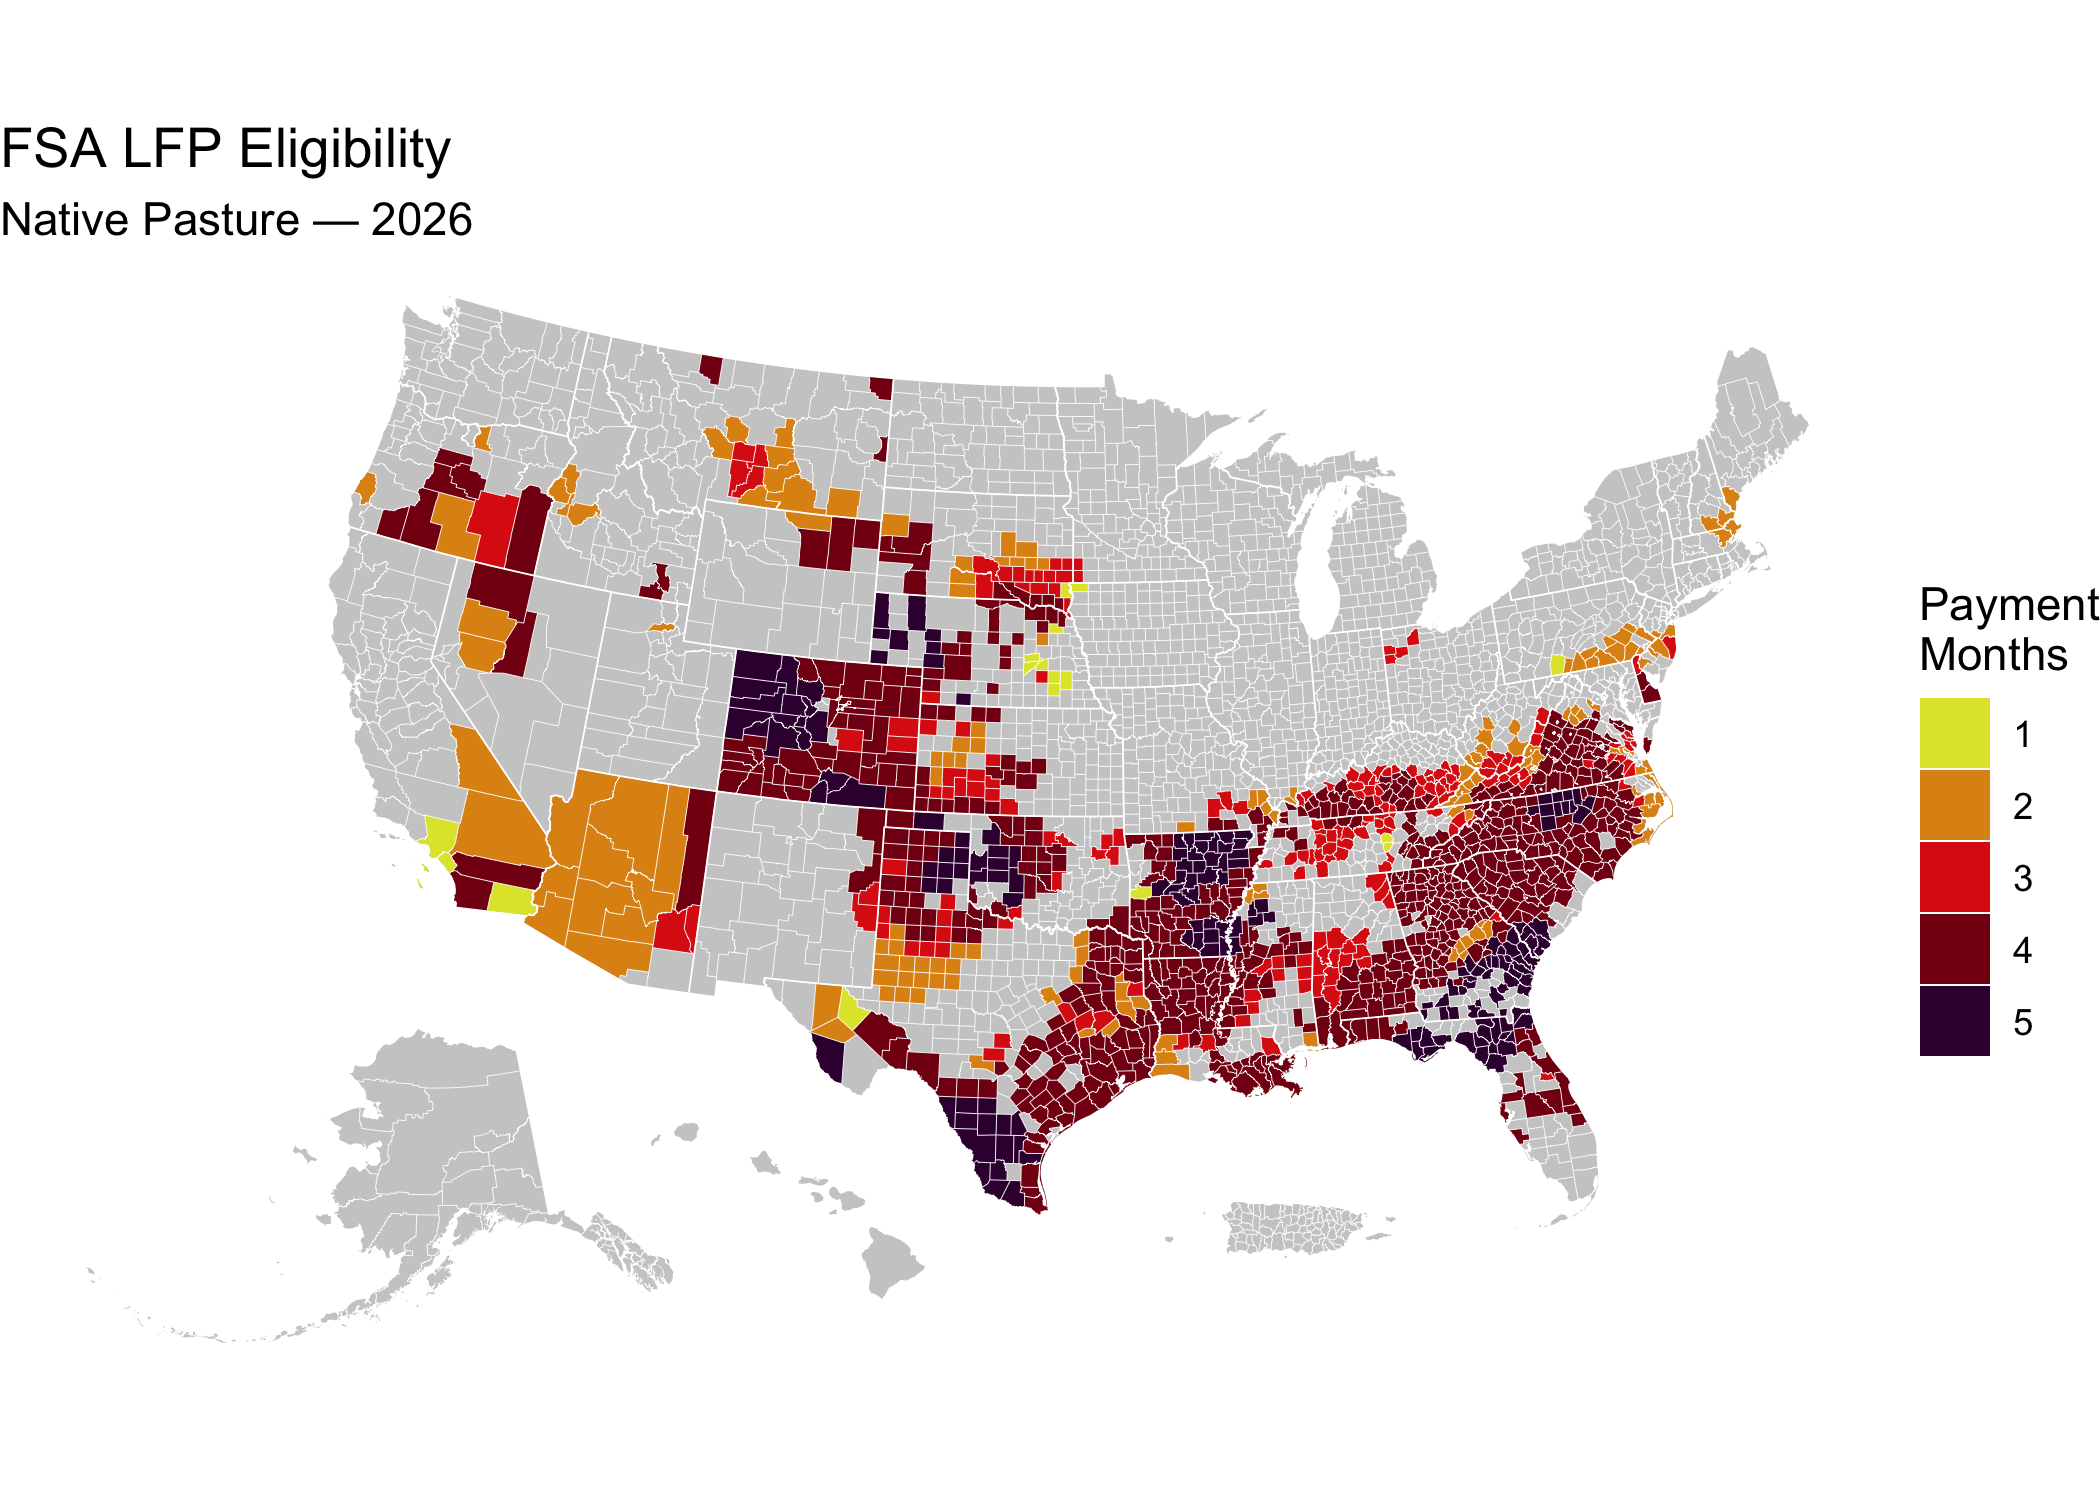
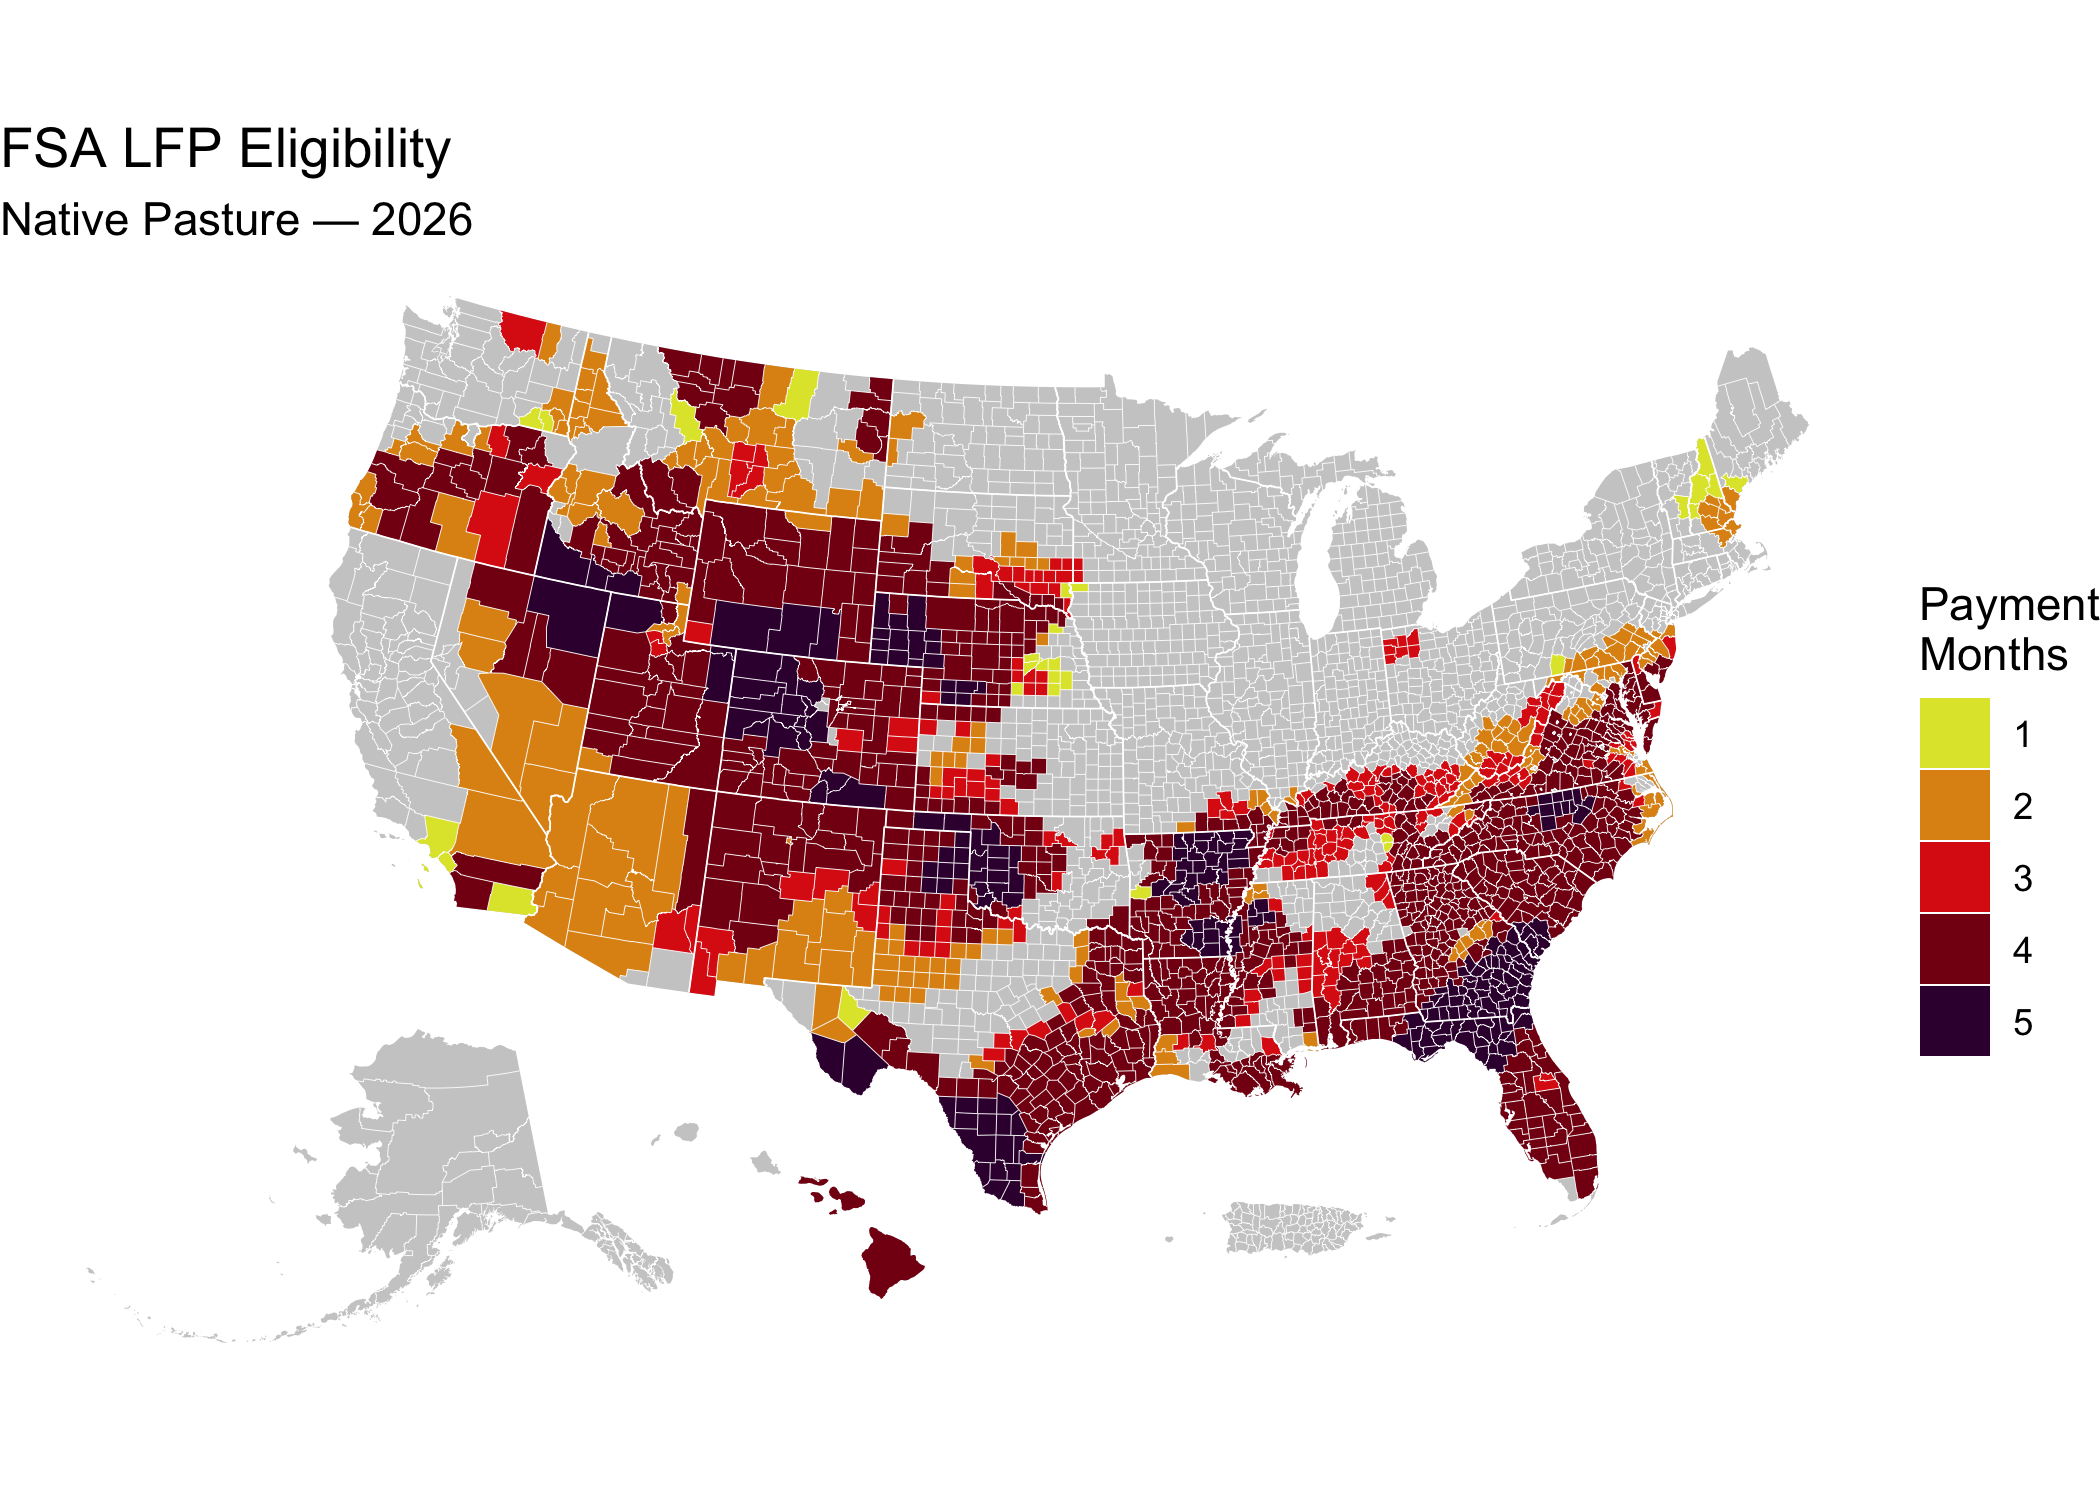
Fix silent row loss from unpadded FSA codes (2025/2026 under-read)
The 2025 year-end table stores FSA state/county codes as numeric cells,
which read as unpadded text ("1", "11"); those codes failed the FIPS join
and were silently dropped (2025: 2,821 -> 978 rows), and they poisoned the
name-based county lookup that the code-less 2026 weekly rows depend on
(2026: 7,767 -> 6,300). Zero-pad codes after the fallback chain, fail
loudly on FIPS-join misses instead of filtering silently, map the "???"
FSA administrative units (names verified in fsa-counties-dd17/dd22),
reconcile the Houlton/Fort Kent Maine units to Aroostook, and add
FORCE_REBUILD=true for regenerating outputs when no new assets exist.

Current output now carries 58,475 rows; every program year is within
~0.3-3% of the FOIA archive with 100% payment-factor agreement on matched
records, and the 2026 Native Pasture README map matches FSA's published
PDF. README comparison language corrected accordingly.

diff --git a/README.md b/README.md
@@ -31,16 +31,16 @@ This repository is the web-published companion to
 [`sustainable-fsa/fsa-lfp-eligibility`](https://github.com/sustainable-fsa/fsa-lfp-eligibility),
 which archives the same LFP county eligibility determinations as
 obtained directly from FSA via FOIA request. The two datasets share a
-common schema, but differ in content: the FOIA data are richer — they
-include Fire eligibility, payment factors for 2008–2011, and later
-corrections and retroactive determinations that never appeared in the
-web-published tables (the web tables for a program year remain
-provisional until well after year end). This archive’s unique
-contributions are current-year coverage, the weekly snapshot history,
-and the original published maps and tables themselves. For most analyses
-of 2008–2025 eligibility, prefer the FOIA archive; use this archive for
-the current program year and for studying when eligibility was
-published.
+common schema and agree on the determinations they both contain, but
+differ at the margins: the FOIA data are somewhat richer — they include
+Fire eligibility, payment factors for 2008–2011, and modestly more
+records in most years (roughly 0.3–3%) reflecting corrections and late
+determinations captured in FSA’s subsequent database extracts. This
+archive’s unique contributions are current-year coverage, the weekly
+snapshot history, and the original published maps and tables themselves.
+For analyses of completed program years, prefer the FOIA archive; use
+this archive for the current program year and for studying when
+eligibility was published.
 
 The [`fsa-lfp-eligibility-web.R`](fsa-lfp-eligibility-web.R) script
 handles all data acquisition and processing. The script scrapes the USDA